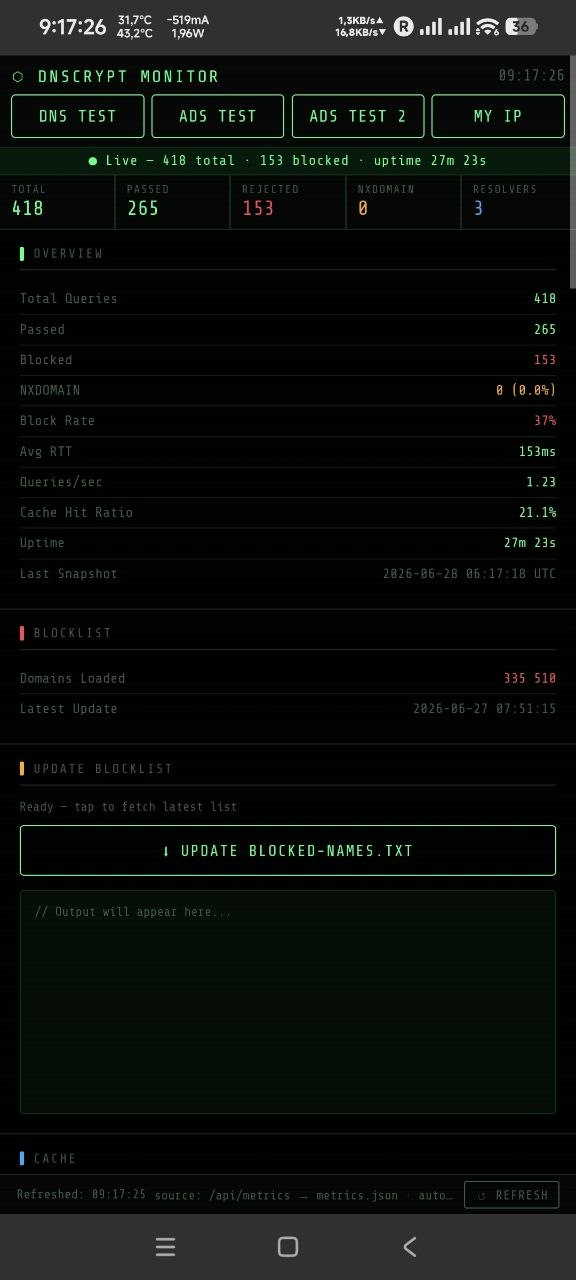
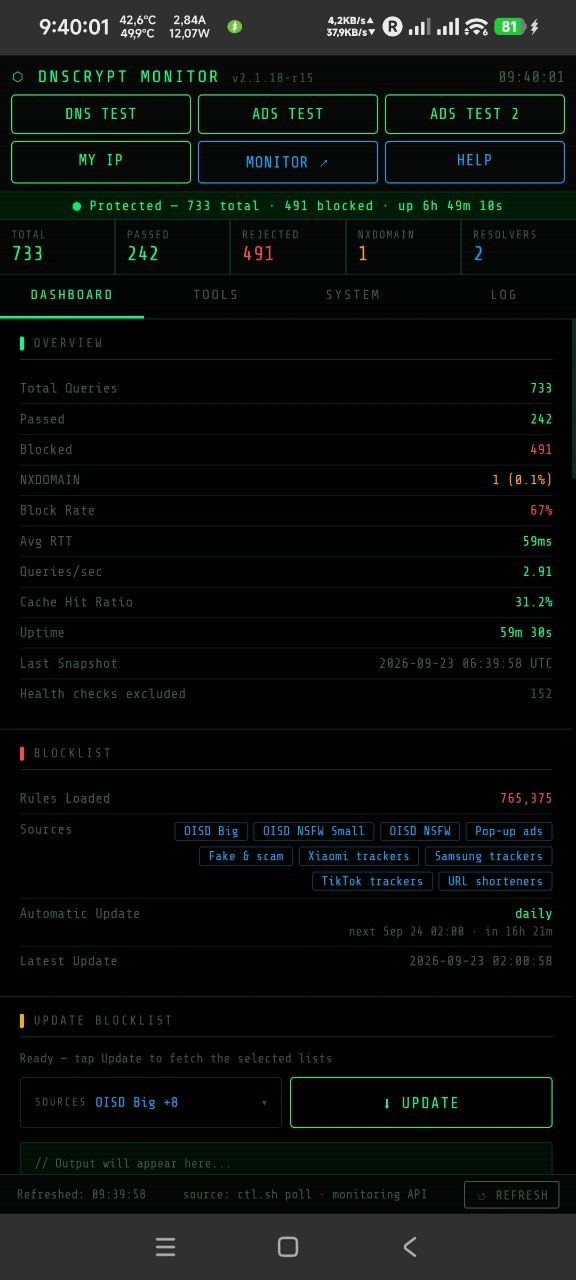
Add files via upload

diff --git a/README.md b/README.md
@@ -1,146 +1,200 @@
 <p align="center">
   <img src="https://img.shields.io/badge/ARM64-only-green?style=flat-square" />
-  <img src="https://img.shields.io/badge/v2.1.18-r9-blue?style=flat-square" />
-  <img src="https://img.shields.io/badge/KernelSU%20%2F%20SukiSU%20%2F%20Magisk-compatible-brightgreen?style=flat-square" />
+  <img src="https://img.shields.io/badge/v2.1.18--r12-blue?style=flat-square" />
+  <img src="https://img.shields.io/badge/SukiSU%20%2F%20KernelSU%20%2F%20Magisk-compatible-brightgreen?style=flat-square" />
+  <img src="https://img.shields.io/badge/WebUI-built%20in-00ff88?style=flat-square" />
 </p>
 
 # DNSCrypt-Proxy Android — arm64
 
-Encrypts all DNS traffic on your device. No ISP snooping. No DNS hijacking. No ads.
+Encrypted DNS for the whole device. Every app's DNS goes through [dnscrypt-proxy](https://github.com/DNSCrypt/dnscrypt-proxy), encrypted, to resolvers you choose — with ad and tracker blocking, leak protection from the first second of boot, and a WebUI that shows and controls everything.
+
+<img width="300" alt="dnscrypt-proxy WebUI" src="https://raw.githubusercontent.com/nikakvo/dnscrypt-proxy-android-arm64-only/main/dnscrypt-proxy.jpg" />
+
+---
+
+## Features
+
+- **Encrypted DNS for every app** — a transparent iptables redirect, nothing to configure per app
+- **No leak window** — DNS is locked down at boot before the network is up; a leak guard drops anything that escapes
+- **Blocklists** — OISD, HaGeZi, add-ons and your own URLs, merged and deduplicated; your custom list is always added on top
+- **Tools** — check why a domain is blocked and by which list, allow or block with one tap
+- **Resolvers** — pick from 700+ public resolvers, see what each one declares (no-log, filtering, DNSSEC), test latency
+- **IPv4 / IPv6 modes** — strict IPv4, IPv6-compatible for IPv6-only carriers, or full dual stack — switchable live
+- **Pause** — 5 / 15 / 60 minutes for hotel and airport Wi-Fi login pages
+- **Self-healing** — a watchdog restarts a hung daemon, restores firewall rules Android removes, and never leaves the phone without internet
 
 ---
 
 ## How it works
 
 ```
-App DNS request
+App DNS request (port 53)
       ↓
-iptables redirect (port 53 → 127.0.0.1:5354)
+iptables redirect → 127.0.0.1:5354
       ↓
-dnscrypt-proxy (encrypted + authenticated)
+dnscrypt-proxy: allow list → blocklist → cache
       ↓
-Cloudflare / Quad9 / Mullvad  ← fastest resolver wins
+encrypted (DoH / DNSCrypt) → Cloudflare · Quad9 · Mullvad
 ```
 
-- ISP sees **encrypted traffic only**
-- Android Private DNS disabled on install to prevent bypass
-- IPv6 killed at three levels — system properties, sysctl, ip6tables
-- DNS blocked at boot until proxy is confirmed ready — zero startup leak window
-- Self-healing watchdog — restarts dnscrypt-proxy automatically if it crashes
-- IPv6 re-enforcement every ~60 seconds
+- Android's Private DNS is switched off at install (it would bypass the module) and restored on uninstall
+- QUIC (UDP/443) is blocked by default so browsers cannot use their own built-in DoH
+- Resolvers are pinned as signed stamps — the daemon starts with no download and no bootstrap DNS
 
 ---
 
 ## Requirements
 
-- arm64 device
-- SUkiSU Ultra / KernelSU / Magisk with root
-- Android 9+
+| | |
+|---|---|
+| CPU | arm64 |
+| Root | SukiSU Ultra or KernelSU (WebUI built in) · Magisk (WebUI via MMRL or KSU WebUI Standalone) |
+| Android | 9+ |
 
 ---
 
 ## Installation
 
-1. Flash `dnscrypt-proxy-vX.X.X.zip` via SUkiSU / KernelSU / Magisk
-2. The installer automatically:
-   - Scans for conflicting DNS modules and apps
-   - Prompts to remove conflicts if found *(VOL UP = yes / VOL DOWN = abort)*
-   - If conflicts removed: **reboot and flash again**
-   - If no conflicts: installation completes in one flash
+1. Flash `dnscrypt-proxy-vX.X.X.zip` in your root manager
+2. The installer checks for conflicting DNS modules and apps (AdAway, RethinkDNS, NextDNS, Blokada, …)
+   - found → it asks before removing them *(VOL UP = yes · VOL DOWN = abort)* → reboot and flash again
+   - none → done in one flash
 3. Reboot
-
-Module status should show `Working 🌬🌬🌬` in your manager.
+4. Open the WebUI — the banner should say **Protected**
 
 <img width="300" alt="dnscrypt-proxy" src="https://raw.githubusercontent.com/nikakvo/dnscrypt-proxy-android-arm64-only/main/dnscrypt-proxy.jpg" />
 
 ---
 
-## DNS Resolvers
+## WebUI
 
-| Resolver | Type | No-Log | DNSSEC | Location |
-|---|---|---|---|---|
-| Cloudflare | DoH | ✅ | ✅ | Global anycast |
-| Quad9 (nofilter) | DoH | ✅ | ✅ | Switzerland 🇨🇭 |
-| Mullvad Base | DoH | ✅ | ✅ | Sweden 🇸🇪 |
+| Tab | What's there |
+|---|---|
+| **Dashboard** | Live stats, blocklist status, **Update Blocklist** with the source picker, cache, resolvers, top domains, recent queries. Tap any domain → Allow / Block / Check |
+| **Tools** | **Check a domain** (verdict, matching rule, which list, live answer) · **My rules** (allow / block) · **Resolvers** |
+| **System** | **Pause protection** · live status of every process, health check and firewall rule · **IP mode** · actions (restart, reload, reapply rules, run checks) · settings |
+| **Log** | Module and dnscrypt-proxy log, filterable by level and source |
 
-Load balanced automatically — fastest one wins.
+A full explanation of every section is in the WebUI under **Help**.
 
 ---
 
-## Configuration
+## Blocklists
+
+Pick any combination under **Sources**:
+
+| Group | Lists |
+|---|---|
+| OISD | Small · Big · NSFW Small · NSFW |
+| HaGeZi | Light · Normal · Pro · Pro++ · Ultimate · Threat Intelligence mini / medium |
+| Add-ons | Pop-up ads · Fake & scam · Gambling · NSFW · Xiaomi / Samsung / TikTok trackers · URL shorteners |
+| Your own | any `https://` list — plain domains, hosts or AdBlock format |
+
+On **Update** the selected lists are downloaded and verified, merged, deduplicated, subdomains already covered by a blocked parent are dropped, `custom-blocked-names.txt` is added on top, and dnscrypt-proxy reloads with no downtime.
+
+- Each list is cached. If a download fails, its last good copy is used — a list never silently disappears
+- **Automatic update**: off / daily / weekly, with the next run shown in the WebUI
+- **Custom list**: `/sdcard/dnscrypt-proxy/custom-blocked-names.txt` — edits apply within a minute, deletions included, no download needed
+
+Rule syntax:
+
+```
+example.com        example.com and all subdomains
+=example.com       example.com only
+ads.*              names starting with "ads."
+*tracker*          names containing "tracker"
+# comment
+```
+
+---
+
+## IP modes
+
+| Mode | IPv6 | IPv6 DNS | AAAA | For |
+|---|---|---|---|---|
+| **IPv4 only** (default) | off | — | blocked | strongest leak protection |
+| **IPv6 compatible** | on | via the proxy | blocked | IPv6-only carriers (464XLAT) |
+| **Dual stack** | on | via the proxy | answered | full IPv6 |
+
+Switch in **System → IP Mode**, applied immediately. The IPv6 modes need IPv6 NAT in the kernel (`CONFIG_IP6_NF_NAT`); without it they run *limited* — IPv6 DNS is dropped instead of redirected, with no leak.
+
+---
+
+## Resolvers
+
+Default: **Cloudflare · Quad9 · Mullvad** — none of them filter, the blocklists do that.
+
+Change them in **Tools → Resolvers**. Protocol, logging, filtering and DNSSEC are decoded from each resolver's signed stamp in the official [public-resolvers](https://github.com/DNSCrypt/dnscrypt-resolvers) list. A new selection is checked by dnscrypt-proxy before it is used, and rolled back automatically if the daemon does not come up with it.
+
+---
+
+## Files
 
 | Path | Purpose |
 |---|---|
-| `/storage/emulated/0/dnscrypt-proxy/dnscrypt-proxy.toml` | Config file |
-| `/data/adb/dnscrypt-proxy.log` | Log file |
-| `http://127.0.0.1:5555` | Monitoring dashboard |
-| `http://127.0.0.1:5556` → Update Blocklist | Blocklist updater |
+| `/data/adb/dnscrypt-proxy/` | Everything the daemon reads — config, lists, cached downloads |
+| `/storage/emulated/0/dnscrypt-proxy/` | Editable copy — changes are picked up within a minute |
+| `/data/adb/dnscrypt-proxy-android.conf` | Module settings (all changeable in the WebUI) |
+| `/data/adb/dnscrypt-proxy.log` | Log |
+| `http://127.0.0.1:5555` | dnscrypt-proxy's own monitoring page |
 
-Config supports hot-reload — edit blocklists or resolver settings without reboot (`SIGHUP`).
-
-On update, existing config is backed up with a timestamp before replacement.
-
----
-
-## Custom Blocklist Domains
-
-Want to permanently block domains that aren't in the default OISD/hagezi lists — or that keep slipping back in after each list refresh?
-
-```
-/storage/emulated/0/dnscrypt-proxy/gustum-blocked-names.txt
-```
-
-One domain per line, in the same format `dnscrypt-proxy` expects for suffix rules:
-
-```
-*.example.com     # blocks the domain and all subdomains
-exact.example.com # blocks only this exact host
-# comment lines starting with # are ignored
-```
-
-Every time you tap **Update Blocklist** in the dashboard, `gustum-blocked-names.txt` is automatically merged into `blocked-names.txt` alongside the freshly downloaded OISD/hagezi list, deduplicated, and hot-reloaded into `dnscrypt-proxy` — no reboot needed.
-
-This file survives module updates and reflashes, so your custom entries are never lost.
+Settings, custom list, allow list, chosen resolvers and cached blocklists are all kept across module updates.
 
 ---
 
-## Conflict Detection
+## Command line
 
-The installer auto-detects and removes conflicting modules and apps — you will be prompted before anything is removed.
+Everything the WebUI does is available from a root shell (e.g. Termux):
 
-**Modules:** BindHosts, AdAway, Energized, Systemless Hosts, DNS66, InviZible Pro, NextDNS, RethinkDNS, Cloudflared, SmartDNS, Dnsmasq, AdGuard, PersonalDNSfilter, Blokada, Nebulo, ControlD
+```sh
+su -c sh /data/adb/modules/dnscrypt-proxy-android/ctl.sh status
+```
 
-**Apps:** org.adaway, org.blokada, dnsfilter.android, com.frostnerd.smokescreen, com.controld.app, com.nextdns.nextdns, com.celzero.bravedns, com.rethinkdns.rethink and others
+| Command | |
+|---|---|
+| `status` · `probe` | full state · run the health checks now |
+| `restart` · `reload` · `reapply-rules` | daemon and firewall actions |
+| `check D` | is domain D blocked, by which rule and list |
+| `allow D` · `unallow D` · `block D` · `unblock D` | your rules |
+| `update start` · `sources-set A,B` | blocklists |
+| `resolvers-set A,B` · `resolvers-test A,B` | resolvers |
+| `ipmode-set ipv4\|compat\|dual` | IP mode |
+| `pause MIN` · `resume` | pause protection |
+| `log N` | last N log lines |
 
----
-
-## WireGuard / VPN
-
-Works alongside ProtonVPN WireGuard and other VPN clients.
-
-If your VPN config has a `DNS =` line — remove it. DNSCrypt must remain in control of DNS or the two will conflict.
+`ctl.sh help` lists everything.
 
 ---
 
 ## Verify
 
-Run an extended test on **dnsleaktest.com** after install:
+On **dnsleaktest.com** → Extended test:
 
-- No entries from your ISP ✅
-- Cloudflare / Quad9 / Mullvad visible ✅
-- No IPv6 address showing ✅
+- No entries from your ISP or carrier ✅
+- Cloudflare / Quad9 / Mullvad (or your chosen resolvers) ✅
+- No IPv6 address in IPv4-only mode ✅
+
+---
+
+## With a VPN
+
+Works alongside WireGuard and other VPNs. Remove the `DNS =` line from the tunnel config so dnscrypt-proxy stays in charge — its encrypted queries then travel inside the tunnel.
+
+Encrypted DNS hides *what you look up*; your carrier still sees which IP addresses you connect to. A VPN hides that. For apps that connect to hard-coded IP addresses and never use DNS, see the companion module **ipset-arm64**.
 
 ---
 
 ## Uninstall
 
-Remove via SUkiSU / KernelSU / Magisk and reboot. The uninstaller removes all iptables rules, restores IPv6 and Android Private DNS to defaults, and cleans up config and logs.
+Remove the module in your root manager and reboot. All firewall rules are removed, IPv6 and Android Private DNS are restored, and the module's files are deleted.
 
 ---
 
 ## Notes
 
-- Built and tested against the Poco F6 Pro SukiSU kernel setup and SukiSU Ultra Manager used in this repository: [GKI KernelSU SUSFS](https://github.com/nikakvo/GKI_KernelSU_SUSFS) and [Xiaomi.eu ROM](https://xiaomi.eu/community/)
+- Built and tested on a Poco F6 Pro with a [GKI KernelSU SUSFS](https://github.com/nikakvo/GKI_KernelSU_SUSFS) kernel, SukiSU Ultra and [Xiaomi.eu](https://xiaomi.eu/community/)
+- Blocklists by [OISD](https://oisd.nl) and [HaGeZi](https://github.com/hagezi/dns-blocklists) · proxy by [DNSCrypt](https://github.com/DNSCrypt/dnscrypt-proxy)
 
 ---
 
